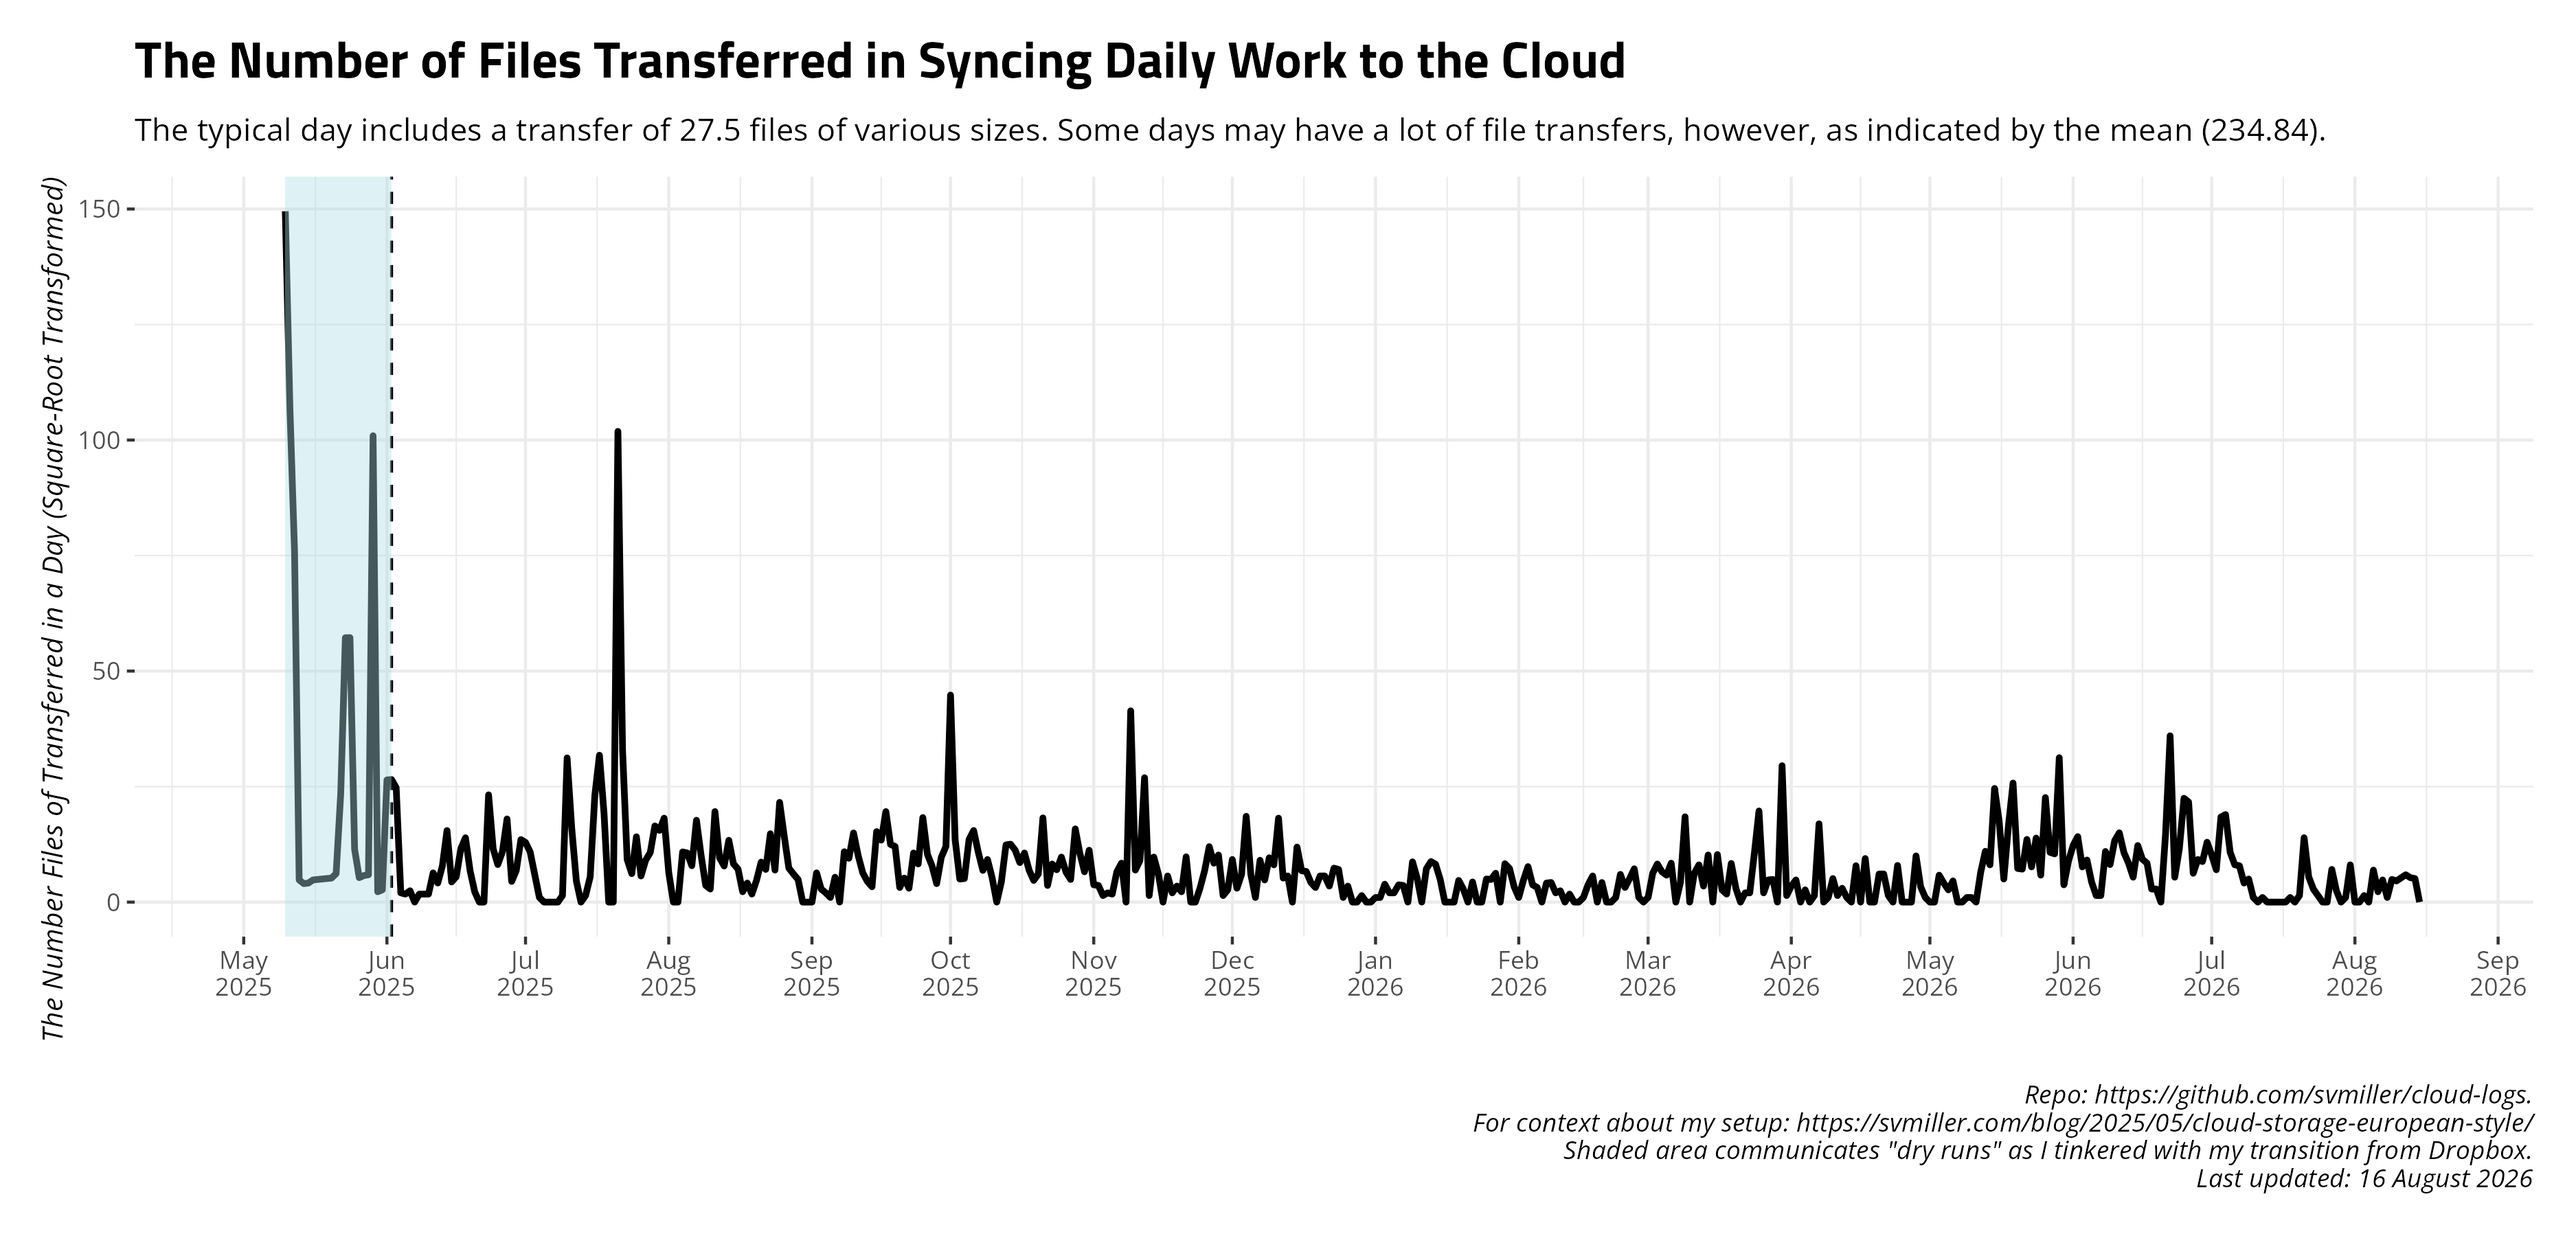
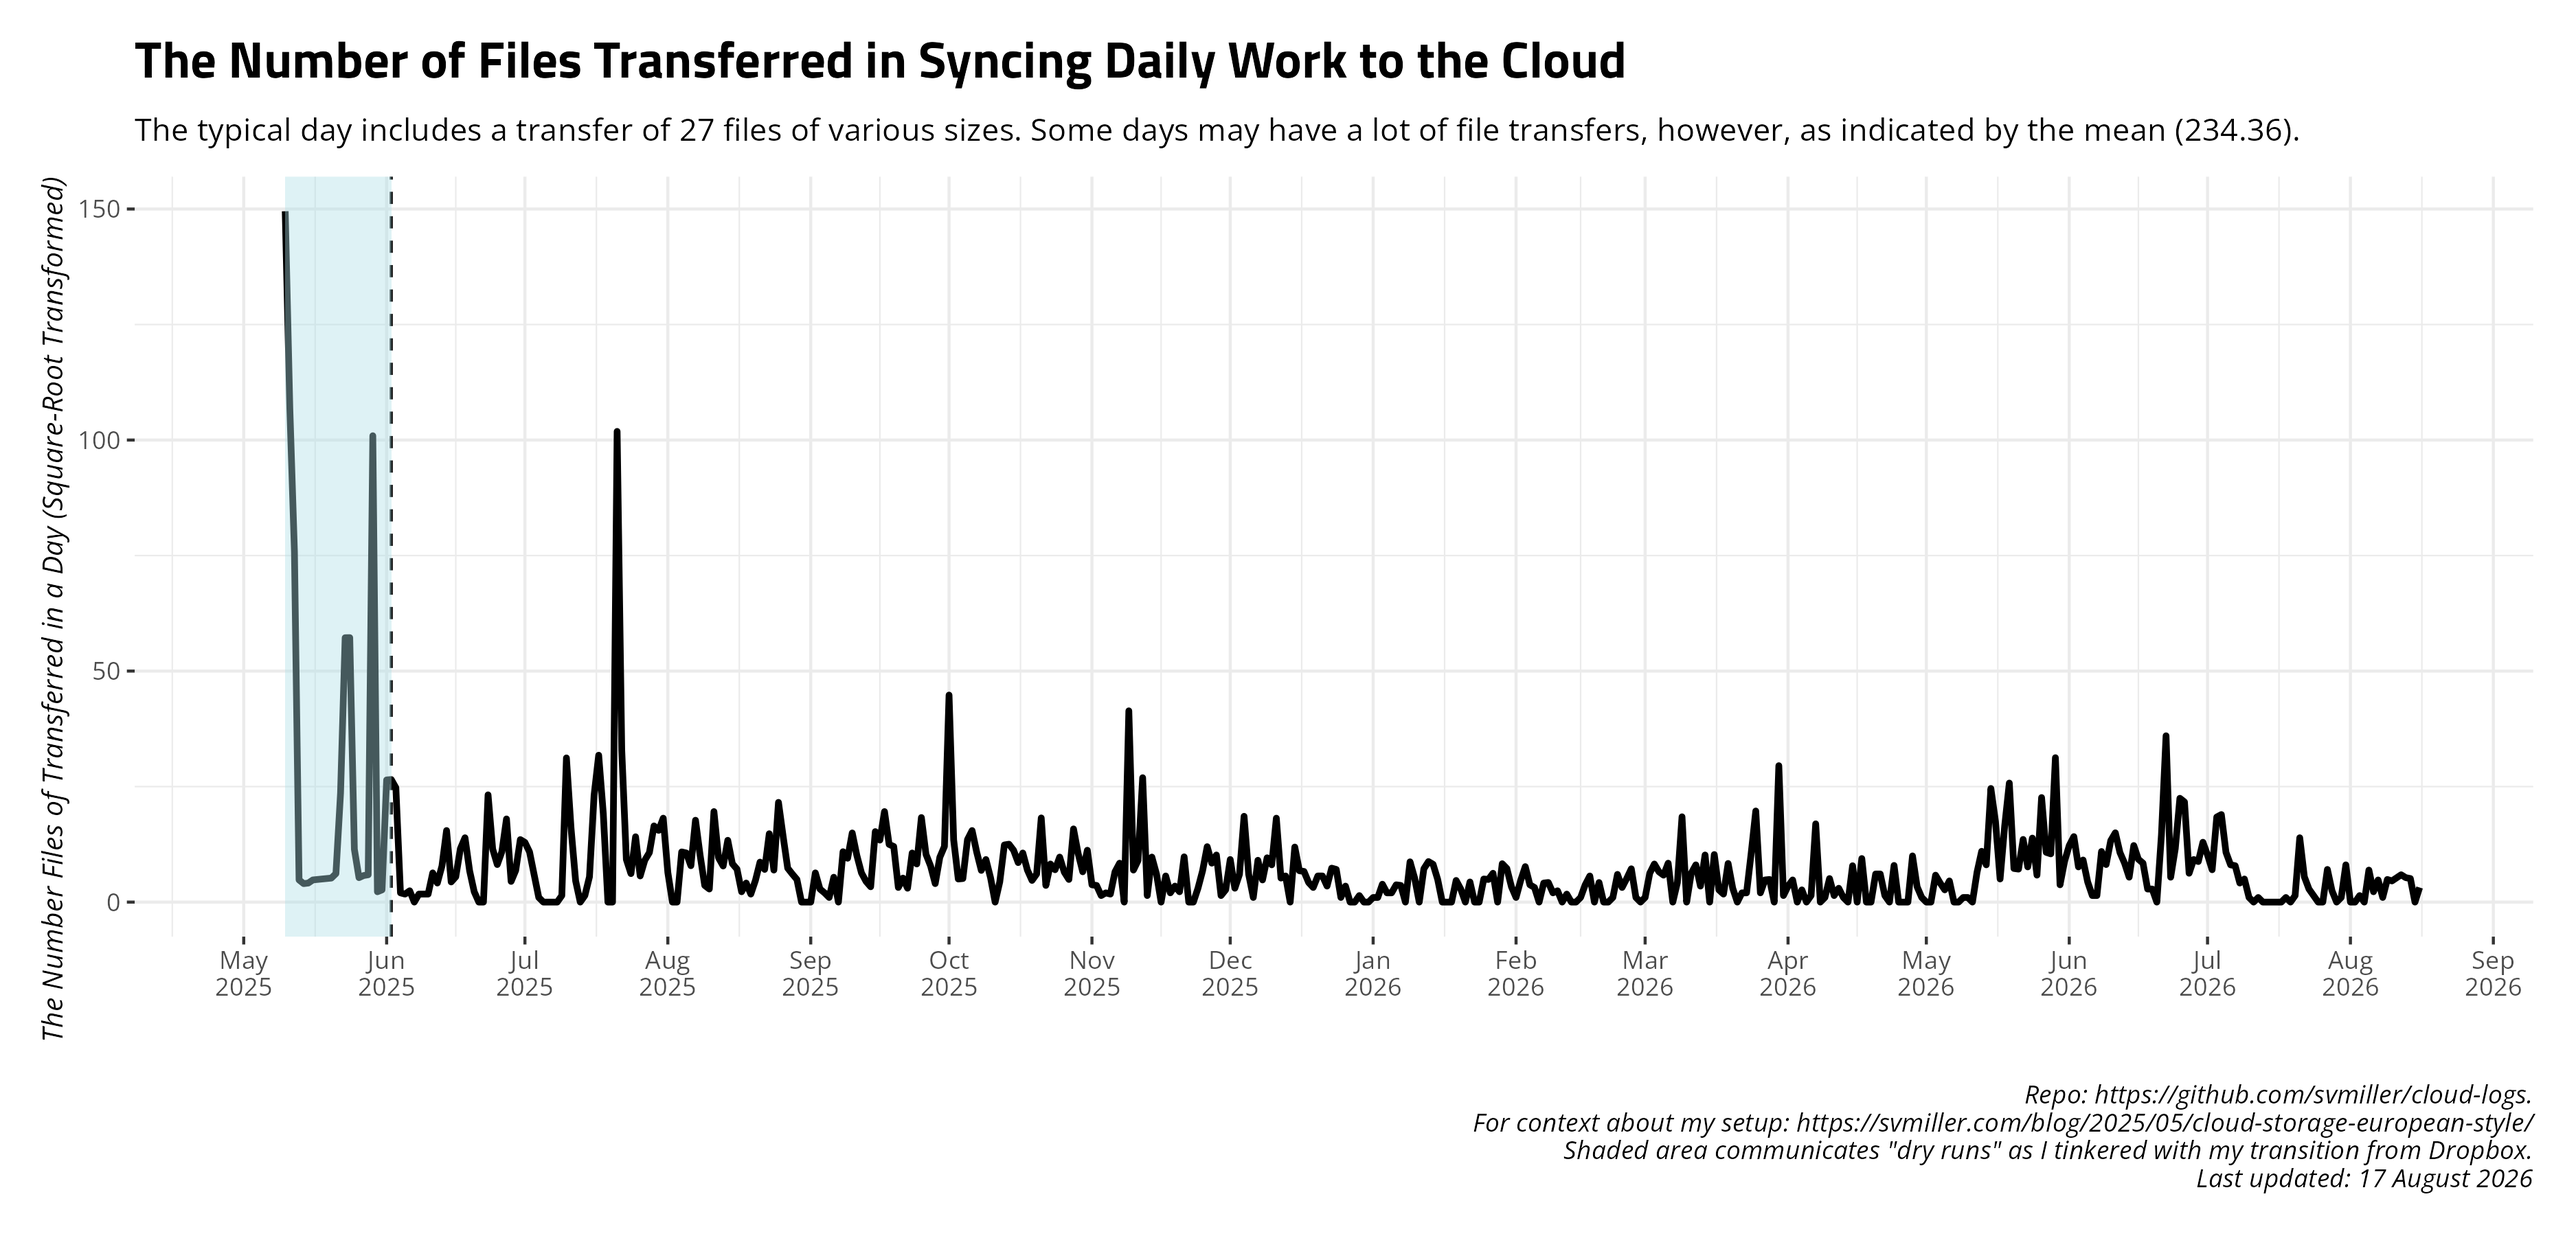
Date: 2026-08-17 09:00:33. Hi mom!

diff --git a/README.md b/README.md
@@ -27,17 +27,17 @@ and uploads to Github.
     #> # A tibble: 14 × 4
     #>    date       ftransfer stransfer   elapsed 
     #>    <date>         <dbl> <chr>       <chr>   
-    #>  1 2026-08-01         0 <NA>        7m31.3s 
-    #>  2 2026-08-02         0 <NA>        5m27.8s 
-    #>  3 2026-08-03         2 1.712 MiB   6m56.0s 
-    #>  4 2026-08-04         0 <NA>        6m41.5s 
-    #>  5 2026-08-05        48 410.448 KiB 12m16.1s
-    #>  6 2026-08-06         5 4.302 MiB   4m43.7s 
-    #>  7 2026-08-07        23 42.005 KiB  42m10.5s
-    #>  8 2026-08-08         1 60.366 KiB  30m8.7s 
-    #>  9 2026-08-09        24 39.296 KiB  28m0.8s 
-    #> 10 2026-08-10        21 49.156 KiB  27m18.9s
-    #> 11 2026-08-12        35 2.452 MiB   13m34.4s
-    #> 12 2026-08-13        28 1.944 MiB   4m21.6s 
-    #> 13 2026-08-14        26 14.735 MiB  19m32.8s
-    #> 14 2026-08-15         0 <NA>        4m40.9s
+    #>  1 2026-08-02         0 <NA>        5m27.8s 
+    #>  2 2026-08-03         2 1.712 MiB   6m56.0s 
+    #>  3 2026-08-04         0 <NA>        6m41.5s 
+    #>  4 2026-08-05        48 410.448 KiB 12m16.1s
+    #>  5 2026-08-06         5 4.302 MiB   4m43.7s 
+    #>  6 2026-08-07        23 42.005 KiB  42m10.5s
+    #>  7 2026-08-08         1 60.366 KiB  30m8.7s 
+    #>  8 2026-08-09        24 39.296 KiB  28m0.8s 
+    #>  9 2026-08-10        21 49.156 KiB  27m18.9s
+    #> 10 2026-08-12        35 2.452 MiB   13m34.4s
+    #> 11 2026-08-13        28 1.944 MiB   4m21.6s 
+    #> 12 2026-08-14        26 14.735 MiB  19m32.8s
+    #> 13 2026-08-15         0 <NA>        4m40.9s 
+    #> 14 2026-08-16        10 12.911 MiB  34m18.6s
